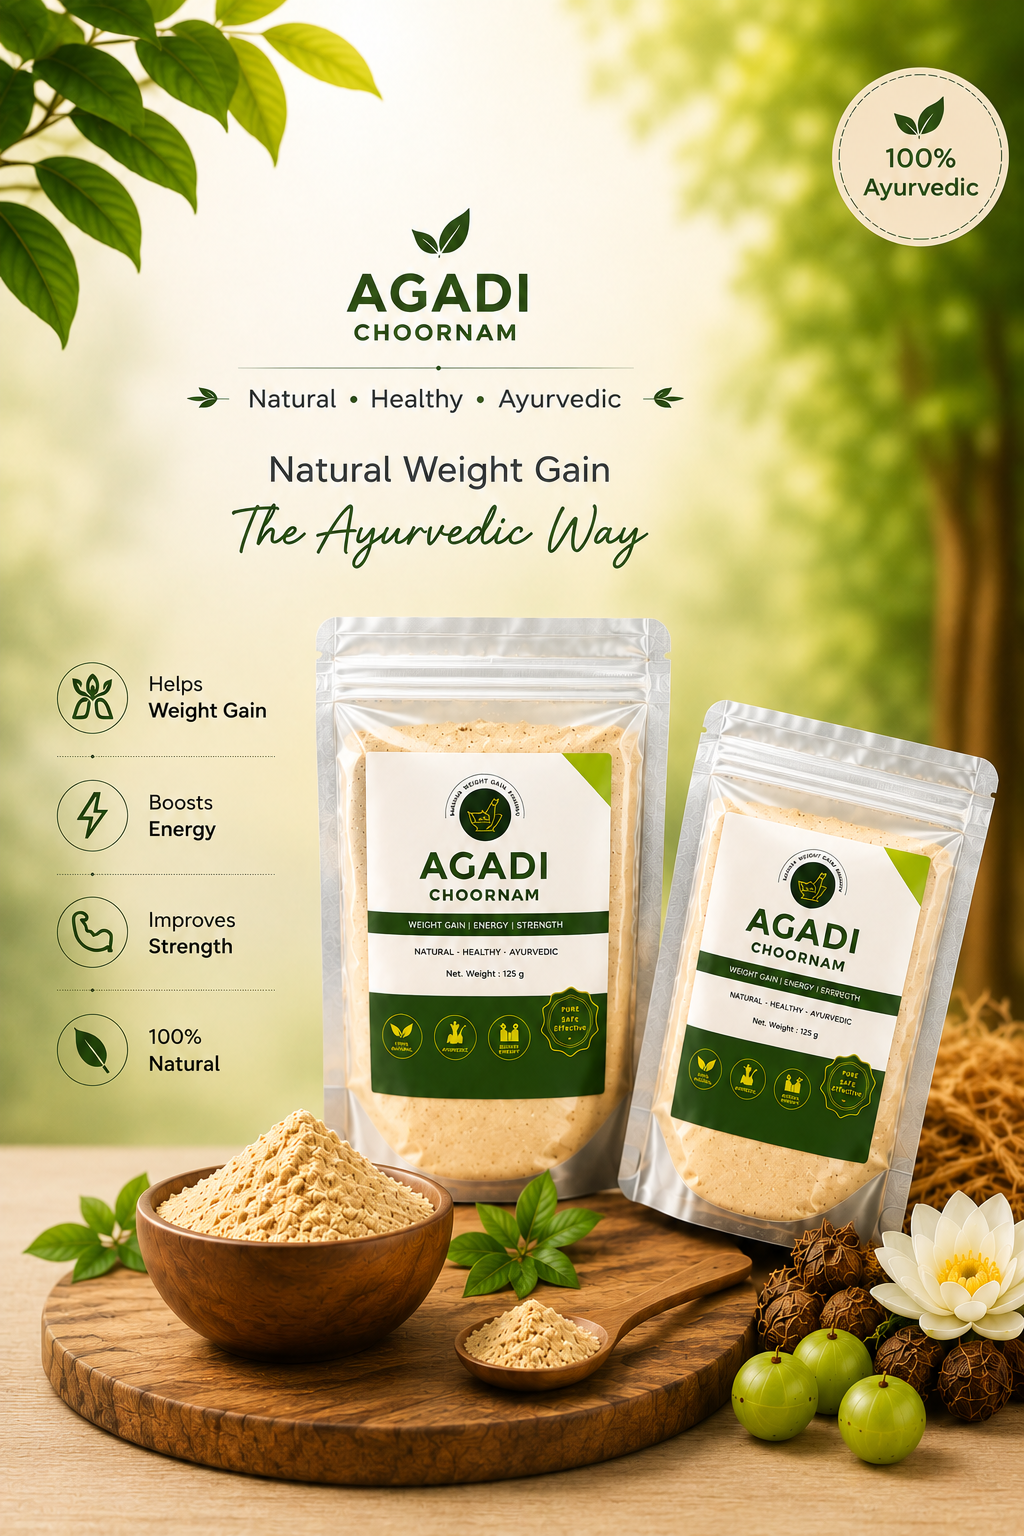
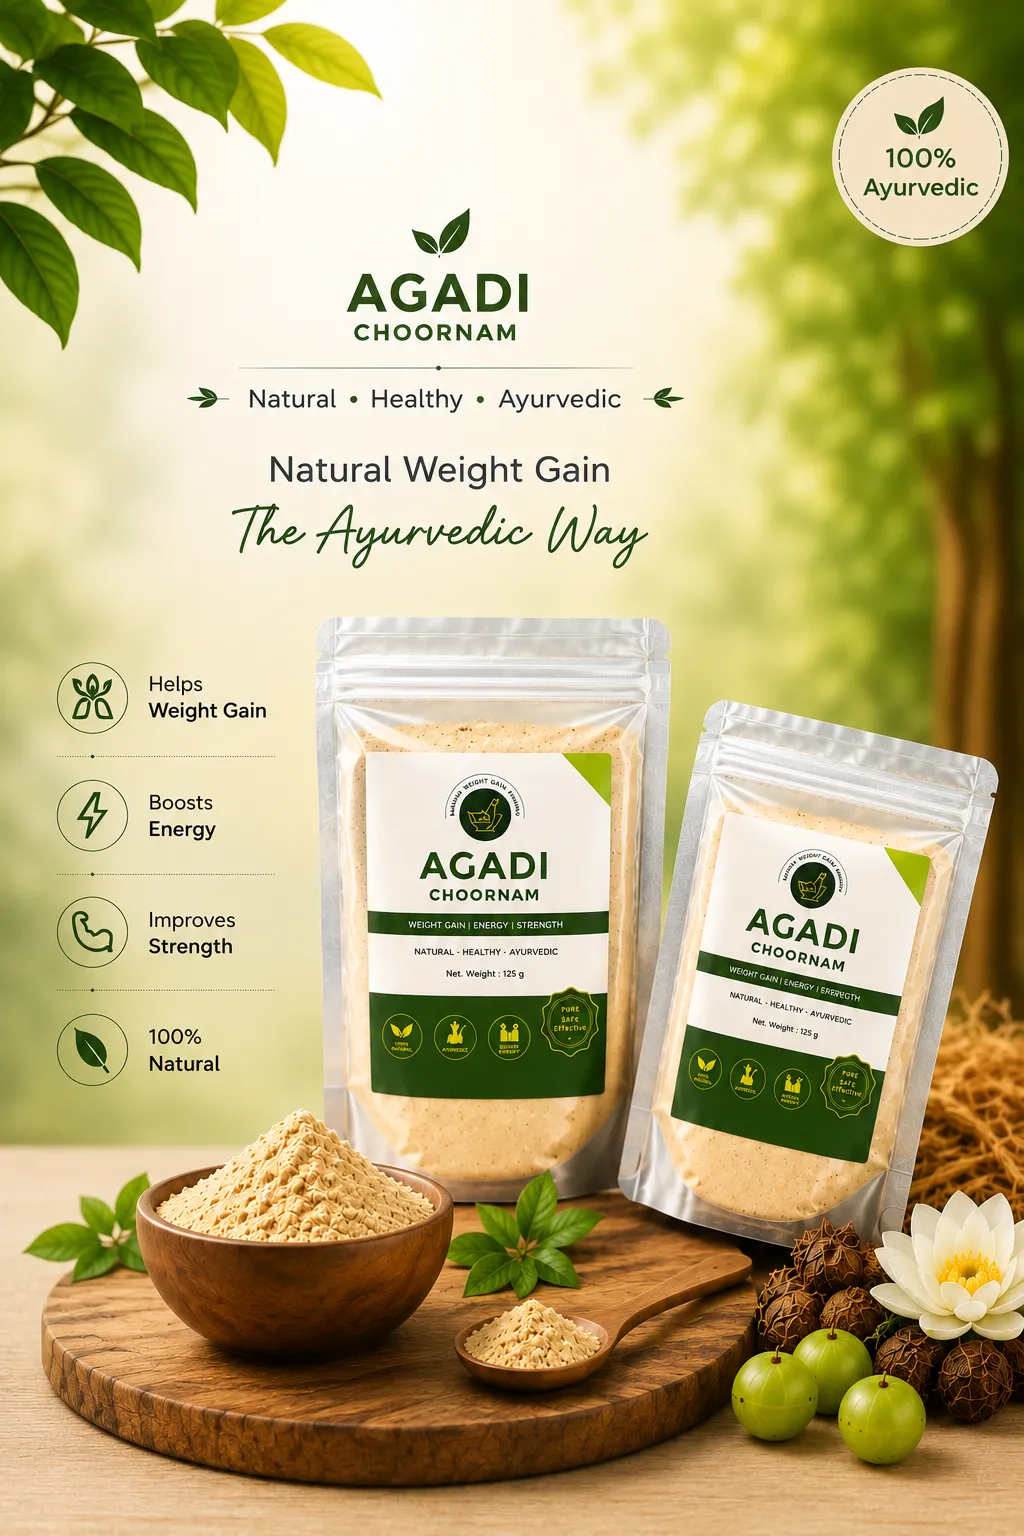
perf: compress hero images to lightweight WebP, add product skeleton loader, and add 525 API error fallback

diff --git a/frontend/src/pages/Home.jsx b/frontend/src/pages/Home.jsx
@@ -82,15 +82,33 @@ const Home = () => {
     }
   }, [location]);
 
+  const FALLBACK_PRODUCT = {
+    _id: 'agadi-choorna-default',
+    name: 'Agadi Choorna (Weight Gain Formula)',
+    price: 499,
+    description: 'Pure 100% Ayurvedic herbal blend for natural weight gain, appetite stimulation, and gut health.',
+    images: ['/images/product-pouch.webp'],
+    benefits: [
+      'Naturally Stimulates Appetite & Digestion',
+      'Promotes Healthy Weight & Muscle Gain',
+      '100% Herbal & Chemical Free Formula',
+      'Improves Intestinal Nutrient Absorption'
+    ]
+  };
+
   // Fetch products
   useEffect(() => {
     const fetchProducts = async () => {
       try {
         const { data } = await API.get('/products');
-        setProducts(data || []);
+        if (data && Array.isArray(data) && data.length > 0) {
+          setProducts(data);
+        } else {
+          setProducts([FALLBACK_PRODUCT]);
+        }
       } catch (error) {
-        console.error('Error fetching products:', error);
-        setProducts([]);
+        console.warn('Backend API temporary issue, using default Agadi Choorna product fallback:', error);
+        setProducts([FALLBACK_PRODUCT]);
       } finally {
         setLoading(false);
       }
@@ -327,8 +345,22 @@ const Home = () => {
           </div>
 
           {loading ? (
-            <div style={{ textAlign: 'center', padding: '40px', fontSize: '1.2rem', color: 'var(--primary-green)' }}>
-              Loading products...
+            <div className="products-grid products-grid--single">
+              <div className="product-skeleton-card">
+                <div className="skeleton-box" style={{ width: '100%', height: '220px', borderRadius: '14px' }} />
+                <div className="skeleton-box" style={{ width: '65%', height: '24px', borderRadius: '6px', marginTop: '6px' }} />
+                <div className="skeleton-box" style={{ width: '95%', height: '14px', borderRadius: '4px' }} />
+                <div className="skeleton-box" style={{ width: '80%', height: '14px', borderRadius: '4px' }} />
+                <div style={{ display: 'flex', flexDirection: 'column', gap: '8px', marginTop: '10px' }}>
+                  <div className="skeleton-box" style={{ width: '55%', height: '14px', borderRadius: '4px' }} />
+                  <div className="skeleton-box" style={{ width: '60%', height: '14px', borderRadius: '4px' }} />
+                  <div className="skeleton-box" style={{ width: '50%', height: '14px', borderRadius: '4px' }} />
+                </div>
+                <div style={{ display: 'flex', justifyContent: 'space-between', alignItems: 'center', marginTop: '16px' }}>
+                  <div className="skeleton-box" style={{ width: '85px', height: '30px', borderRadius: '6px' }} />
+                  <div className="skeleton-box" style={{ width: '125px', height: '40px', borderRadius: '25px' }} />
+                </div>
+              </div>
             </div>
           ) : (
             <div className={`products-grid${products.length === 1 ? ' products-grid--single' : ''}`}>

diff --git a/frontend/src/index.css b/frontend/src/index.css
@@ -42,6 +42,34 @@ body {
   -webkit-text-size-adjust: 100%;
   -ms-text-size-adjust: 100%;
 }
+
+/* ===== Skeleton Loader ===== */
+@keyframes skeleton-shimmer {
+  0% { background-position: -200% 0; }
+  100% { background-position: 200% 0; }
+}
+
+.skeleton-box {
+  background: linear-gradient(90deg, #eef2eb 25%, #f9fcf7 37%, #eef2eb 63%);
+  background-size: 200% 100%;
+  animation: skeleton-shimmer 1.4s infinite linear;
+  border-radius: var(--radius-sm);
+}
+
+.product-skeleton-card {
+  background: #fff;
+  border-radius: var(--radius-lg);
+  border: 1px solid var(--border-color);
+  box-shadow: 0 4px 20px rgba(47,79,30,0.06);
+  overflow: hidden;
+  max-width: 440px;
+  margin: 0 auto;
+  padding: 24px;
+  display: flex;
+  flex-direction: column;
+  gap: 14px;
+  width: 100%;
+}
 h1, h2, h3, h4, h5, h6 {
   font-family: var(--font);
   font-weight: 600;